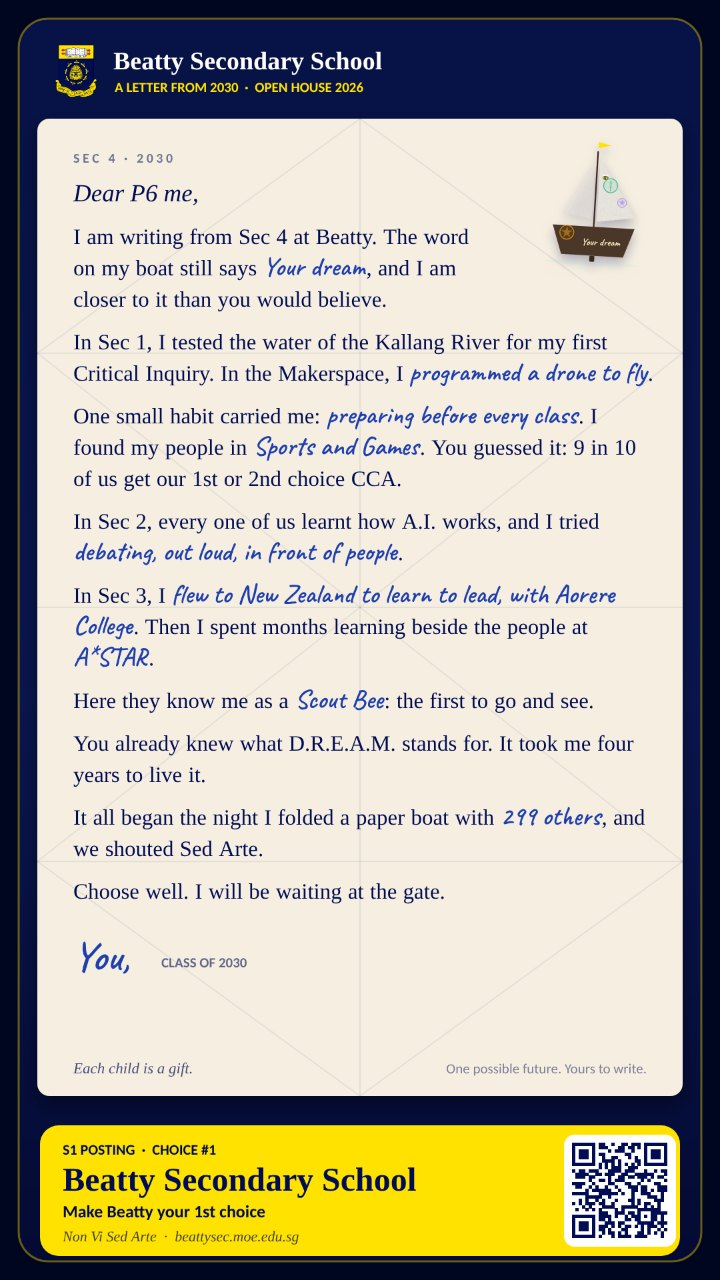
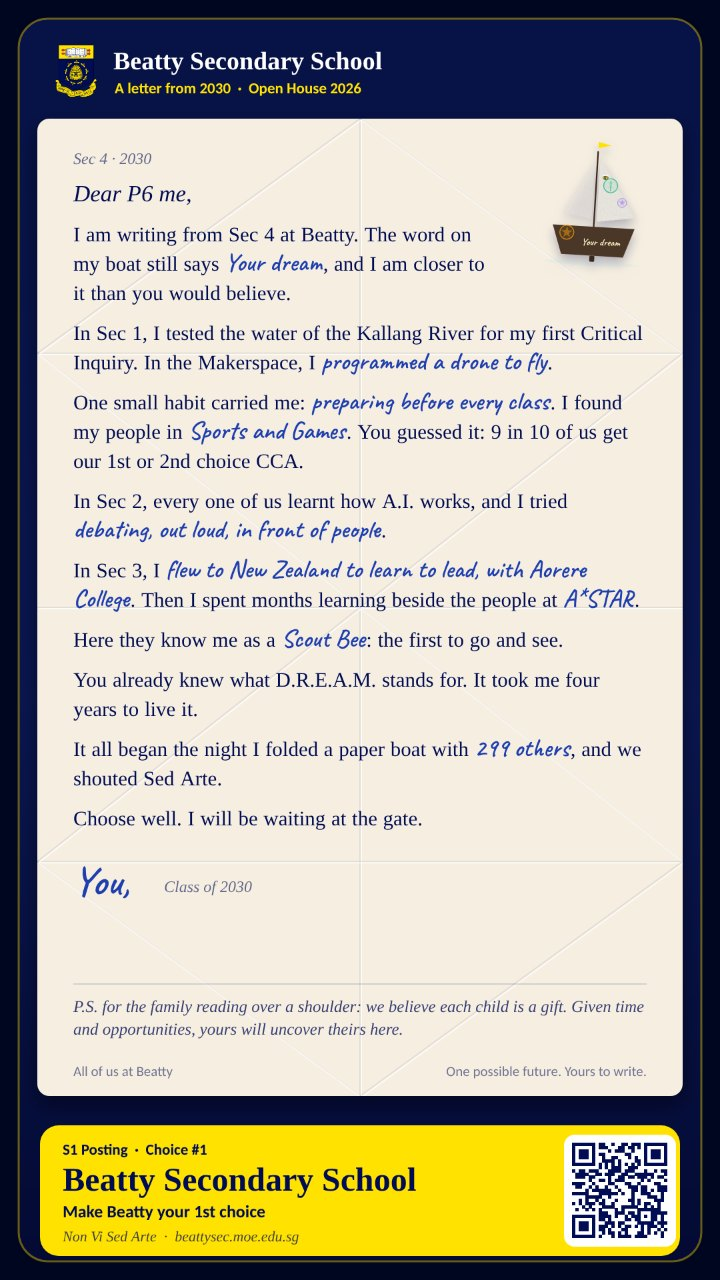
Craft pass: quiet chrome, so the boat and the letter carry the show
An audit for the tells of a generated interface, and the fixes, in order.

Icons: the eight bees in the quiz use the show's own line icons (they were emoji, though the same
bees are line icons one screen later). Tick glyphs typed as text become the check icon.

Labels: on the phone, small capital labels with wide tracking become sentence case and a size
larger; they are read at arm's length in a hall.

Colour: no gradient text and no glow on the big screen's fun fact number or the gold letters;
no glow on the phone's numbers, badges and bands. A visitor's sail colour is shown as a sail,
not a glowing ball.

Copy: no exclamation marks or emoji in interface feedback (You got it, Good guess, Give it a
wave). A wrong guess no longer reads Good guess! Correct!

The letter: a dateline and sign off set like a letter, creases with a lit edge, type in the saved
image as large as the sheet allows, and a printed note from the school to the family reading over
a shoulder. Under it, one button and one quiet row of links replace six pills.

Claude-Session: https://claude.ai/code/session_01HFLukEU6NirBTN83HDK143

Changed region(s): [[0.0917, 0.0625, 0.9167, 0.8438], [0.0917, 0.875, 0.3056, 0.9062]]

diff --git a/gem/join/app.js b/gem/join/app.js
@@ -1666,7 +1666,6 @@ const WHY_FOR = {
     'The Eco-Strategist': 'From testing the Kallang River in Sec 1 to ecostewardship in Hanoi: you would learn by caring for real places.',
 };
 const WHY_DEFAULT = 'Every Beattyian has gifts waiting to be found. Here you get the time, and the chances, to find yours.';
-const BELIEF_LINE = 'Each child is a gift.';
 function whyLine() { return WHY_FOR[D.bee] || WHY_DEFAULT; }
 const CARD_URL_LABEL = 'beattysec.moe.edu.sg';
 const WHY_BEATTY = [['8', 'international exchanges'], ['6', 'industry attachments'], ['17', 'CCAs to belong to']];
@@ -1792,6 +1791,8 @@ const WENT = { GeoBali: 'stood on a volcano in Bali, for Geography', LitBali: 'w
     Estonia: 'worked with students in Estonia on digital citizenship', Hanoi: 'flew to Hanoi to learn ecostewardship' };
 const WORKED = { Rockwell: 'Rockwell Automation', PIL: 'PIL, the shipping line', ASTAR: 'A*STAR', Journalism: 'the Berita Harian newsroom', TamilMurasu: 'the Tamil Murasu newsroom', Makita: 'ITE College Central' };
 const LETTER_FROM = 'Sec 4 · 2030', LETTER_SIGN = 'Class of 2030', LETTER_FOOT = 'One possible future. Yours to write.';
+/* The one part not from the child: the school, to whoever is reading over a shoulder. From the school's own belief statement. */
+const LETTER_PS = 'P.S. for the family reading over a shoulder: we believe each child is a gift. Given time and opportunities, yours will uncover theirs here.', LETTER_PS_BY = 'All of us at Beatty';
 const inkSafe = t => String(t == null ? '' : t).replace(/[«»]/g, '').trim();
 const answered = (id, map) => { const t = inkSafe((D.askText || {})[id]); return t ? (map[t.toLowerCase()] || t) : ''; };
 function letterParas() {
@@ -1848,13 +1849,14 @@ function renderMemento() {
                     <p class="lt-date">${LETTER_FROM}</p>
                     ${paras.map((p, i) => `<p class="lt-p${i === 0 ? ' dear' : ''}" style="--i:${i}">${paraHTML(p)}</p>`).join('')}
                     <p class="lt-sign" style="--i:${paras.length}"><b class="ink">You,</b><span>${LETTER_SIGN}</span></p>
-                    <p class="lt-foot" style="--i:${paras.length + 1}"><em>${BELIEF_LINE}</em><span>${LETTER_FOOT}</span></p>
+                    <p class="lt-ps" style="--i:${paras.length + 1}">${LETTER_PS}<span>${LETTER_PS_BY}</span></p>
+                    <p class="lt-foot" style="--i:${paras.length + 2}">${LETTER_FOOT}</p>
                 </div>` : `
                 <div class="lt-seal">
                     <button type="button" class="bp-boat lt-boat" id="unfoldBoat" aria-label="Unfold your boat"><span id="ccBoat">${boat(220)}</span><span class="cc-water"></span></button>
-                    <p class="lt-tease">There is a letter inside your boat.</p>
-                    <p class="lt-tease2">It is from you, four years from now.</p>
-                    <p class="lt-wait" id="ltWait"${together ? '' : ' hidden'}>We unfold together. Wait for the count.</p>
+                    <p class="lt-tease">There is a letter inside your boat</p>
+                    <p class="lt-tease2">It is from you, four years from now</p>
+                    <p class="lt-wait" id="ltWait"${together ? '' : ' hidden'}>We unfold together: wait for the count</p>
                     <button type="button" id="unfoldBtn" class="nav-btn primary w-full text-base uppercase tracking-wide${together ? ' later' : ''}">Unfold it</button>
                 </div>`}
                 <div class="bp-perf"></div>
@@ -1866,7 +1868,8 @@ function renderMemento() {
             ${open ? `<button id="shareCardBtn" class="nav-btn primary w-full mt-4 text-base uppercase tracking-wide">${navigator.share ? 'Save or share my letter' : 'Save my letter'}</button>
             ${navigator.share ? '<button id="downloadCardBtn" class="nav-btn secondary w-full mt-2 text-sm uppercase tracking-wide">Save image</button>' : ''}
             <p class="cc-after">Save it now. Read it again when you choose your schools.</p>` : ''}
-            <div class="bp-links">${kept ? '' : `<button type="button" id="askCardBtn" class="bp-link ask">${ico('curious')}Ask a question</button>`}${CARD_LINKS.map(([l, u]) => `<a class="bp-link" href="${u}" target="_blank" rel="noopener">${l}</a>`).join('')}</div>
+            ${kept ? '' : `<button type="button" id="askCardBtn" class="nav-btn secondary w-full mt-3 text-sm">${ico('curious')}Ask a question</button>`}
+            <p class="bp-links">${CARD_LINKS.map(([l, u]) => `<a href="${u}" target="_blank" rel="noopener">${l}</a>`).join('<i> · </i>')}</p>
             <button id="resetBtn" class="mt-2 w-full text-sm underline pb-6" style="color:var(--text-muted);">Start over</button>
         </div>
     </div>`;
@@ -1937,21 +1940,22 @@ async function renderCardPNG() {
     ctx.textBaseline = 'alphabetic'; ctx.textAlign = 'left';
     if (crest) ctx.drawImage(crest, X, 64, 68, 85);
     ctx.fillStyle = '#fff'; ctx.font = `700 38px ${SERIF}`; ctx.fillText('Beatty Secondary School', X + 90, 104);
-    ctx.fillStyle = gold; ctx.font = `700 21px ${SANS}`; ctx.fillText('A LETTER FROM 2030  ·  OPEN HOUSE 2026', X + 92, 138);
+    ctx.fillStyle = gold; ctx.font = `700 23px ${SANS}`; ctx.fillText('A letter from 2030  ·  Open House 2026', X + 92, 140);
     // the sheet, with the creases the boat left
     const px = 56, py = 178, pw = W - 2 * px, ph = 1466;
     ctx.save(); ctx.shadowColor = 'rgba(0,0,0,.45)'; ctx.shadowBlur = 30; ctx.shadowOffsetY = 12; ctx.fillStyle = cream; roundRect(ctx, px, py, pw, ph, 18); ctx.fill(); ctx.restore();
     ctx.save(); roundRect(ctx, px, py, pw, ph, 18); ctx.clip(); ctx.strokeStyle = 'rgba(0,12,83,.07)'; ctx.lineWidth = 2;
-    const L = (x1, y1, x2, y2) => { ctx.beginPath(); ctx.moveTo(px + x1 * pw, py + y1 * ph); ctx.lineTo(px + x2 * pw, py + y2 * ph); ctx.stroke(); };
+    const L = (x1, y1, x2, y2) => { ctx.strokeStyle = 'rgba(0,12,83,.08)'; ctx.beginPath(); ctx.moveTo(px + x1 * pw, py + y1 * ph); ctx.lineTo(px + x2 * pw, py + y2 * ph); ctx.stroke();
+        ctx.strokeStyle = 'rgba(255,255,255,.75)'; ctx.beginPath(); ctx.moveTo(px + x1 * pw + 2, py + y1 * ph + 2); ctx.lineTo(px + x2 * pw + 2, py + y2 * ph + 2); ctx.stroke(); };   // a crease: a shadow, and the lit edge beside it
     [[.5, 0, .5, 1], [0, .5, 1, .5], [0, .24, 1, .24], [0, .76, 1, .76], [.5, 0, 0, .24], [.5, 0, 1, .24], [.5, 1, 0, .76], [.5, 1, 1, .76], [0, .24, .5, .5], [.5, .5, 1, .24], [0, .76, .5, .5], [.5, .5, 1, .76]].forEach(a => L(...a));
     ctx.restore();
     // their boat, set on the sheet like a stamp
     const bs = 210, bx = px + pw - bs - 26, by = py + 16;
     if (boatImg) { ctx.save(); ctx.translate(bx + bs / 2, by + bs / 2); ctx.rotate(.06); ctx.shadowColor = 'rgba(0,12,83,.28)'; ctx.shadowBlur = 16; ctx.shadowOffsetY = 8; ctx.drawImage(boatImg, -bs / 2, -bs / 2, bs, bs); ctx.restore();
         ctx.save(); ctx.translate(bx + bs / 2 + 8, by + bs * .83); ctx.rotate(.03); ctx.fillStyle = '#fff6c8'; ctx.textAlign = 'center'; ctx.font = `600 ${Math.max(13, Math.min(20, 150 / Math.max(6, word.length)))}px ${HAND_FONT}`; ctx.fillText(word, 0, 0); ctx.restore(); }
-    ctx.textAlign = 'left'; ctx.fillStyle = 'rgba(0,12,83,.55)'; ctx.font = `700 20px ${SANS}`; ctx.fillText(LETTER_FROM.toUpperCase().split('').join(' '), px + 54, py + 66);
+    ctx.textAlign = 'left'; ctx.fillStyle = 'rgba(0,12,83,.6)'; ctx.font = `italic 24px ${SERIF}`; ctx.fillText(LETTER_FROM, px + 54, py + 68);
     // the letter: printed words in serif, the visitor's own in a hand
-    const tx = px + 54, tw = pw - 108, top = py + 124, bottom = py + ph - 150, paras = letterParas();
+    const tx = px + 54, tw = pw - 108, top = py + 124, bottom = py + ph - 290, paras = letterParas();
     const lay = (z) => { const lh = Math.round(z * 1.42), gap = Math.round(z * .5), out = []; let y = top;
         const fontOf = k => k ? `600 ${Math.round(z * 1.22)}px ${HAND_FONT}` : `${z}px ${SERIF}`;
         paras.forEach((p, pi) => { const toks = []; p.split(/(«[^»]*»)/).forEach(seg => { if (!seg) return; const k = seg[0] === '«', tight = !k && /^\S/.test(seg) && toks.length > 0; (k ? seg.slice(1, -1) : seg).split(/\s+/).filter(Boolean).forEach((w, n) => toks.push({ w, k, g: tight && n === 0 })); });
@@ -1963,18 +1967,20 @@ async function renderCardPNG() {
                 out.push({ ...t, x, y, font: ctx.font }); x += ww + sp; });
             y += lh + gap; });
         return { out, end: y - gap }; };
-    let Z = 33, laid = lay(Z); while (laid.end > bottom && Z > 21) { Z -= 2; laid = lay(Z); }
+    let Z = 39, laid = lay(Z); while (laid.end > bottom && Z > 21) { Z -= 2; laid = lay(Z); }   // as large as the sheet allows
     laid.out.forEach(t => { ctx.font = t.font; ctx.fillStyle = t.k ? inkCol : navy; ctx.fillText(t.w, t.x, t.y); });
     // signed
-    const sy0 = Math.min(laid.end + 34, py + ph - 108);
+    const sy0 = Math.min(laid.end + 34, py + ph - 236);
     ctx.fillStyle = inkCol; ctx.font = `600 62px ${HAND_FONT}`; ctx.fillText('You,', tx, sy0 + 26);
-    ctx.fillStyle = 'rgba(0,12,83,.6)'; ctx.font = `700 21px ${SANS}`; ctx.fillText(LETTER_SIGN.toUpperCase(), tx + 132, sy0 + 22);
-    ctx.fillStyle = 'rgba(0,12,83,.72)'; ctx.font = `italic 23px ${SERIF}`; ctx.fillText(BELIEF_LINE, tx, py + ph - 34);
-    ctx.textAlign = 'right'; ctx.fillStyle = 'rgba(0,12,83,.5)'; ctx.font = `21px ${SANS}`; ctx.fillText(LETTER_FOOT, px + pw - 54, py + ph - 34); ctx.textAlign = 'left';
+    ctx.fillStyle = 'rgba(0,12,83,.6)'; ctx.font = `italic 24px ${SERIF}`; ctx.fillText(LETTER_SIGN, tx + 136, sy0 + 22);
+    ctx.strokeStyle = 'rgba(0,12,83,.14)'; ctx.lineWidth = 2; ctx.beginPath(); ctx.moveTo(tx, py + ph - 168); ctx.lineTo(tx + tw, py + ph - 168); ctx.stroke();
+    ctx.fillStyle = 'rgba(0,12,83,.78)'; ctx.font = `italic 25px ${SERIF}`; const psEnd = wrapText(ctx, LETTER_PS, tx, py + ph - 126, tw, 34, 2);
+    ctx.fillStyle = 'rgba(0,12,83,.55)'; ctx.font = `21px ${SANS}`; ctx.fillText(LETTER_PS_BY, tx, py + ph - 30);
+    ctx.textAlign = 'right'; ctx.fillText(LETTER_FOOT, px + pw - 54, py + ph - 30); ctx.textAlign = 'left';
     // the stub: the ask
     const sy = 1688, sh = 196;
     ctx.fillStyle = gold; roundRect(ctx, X - 20, sy, CW + 40, sh, 28); ctx.fill();
-    ctx.fillStyle = navy; ctx.font = `700 22px ${SANS}`; ctx.fillText('S1 POSTING  ·  CHOICE #1', X + 14, sy + 44);
+    ctx.fillStyle = navy; ctx.font = `700 23px ${SANS}`; ctx.fillText('S1 Posting  ·  Choice #1', X + 14, sy + 44);
     ctx.font = `700 ${fit('Beatty Secondary School', `700 $px ${SERIF}`, CW - 250, 50, 34)}px ${SERIF}`; ctx.fillText('Beatty Secondary School', X + 14, sy + 98);
     ctx.font = `700 26px ${SANS}`; ctx.fillText(ASK_LINE, X + 14, sy + 138, CW - 250);
     ctx.font = `italic 22px ${SERIF}`; ctx.fillStyle = 'rgba(0,12,83,.75)'; ctx.fillText('Non Vi Sed Arte  ·  ' + CARD_URL_LABEL, X + 14, sy + 174, CW - 250);
@@ -2244,10 +2250,10 @@ function onFoldBeatDone(foldIndex) {
     clearTimeout(foldAssistTimer);
     chapterFlash(D.nextFold);                            // 🎩 at 5, 💎 at 6 — the boat has its own reveal
     if (soloMode || (D.nextFold || 0) >= (D.foldTarget || 0)) saveToFirebase();   // once per beat → the presenter's "N folded" count
-    if (soloMode) { foldFollowActive = false; soloIdx++; renderRest('Beautiful fold.', 'Eyes back on the big screen'); return; }
+    if (soloMode) { foldFollowActive = false; soloIdx++; renderRest('Beautiful fold', 'Eyes back on the big screen'); return; }
     if ((D.nextFold || 0) < (D.foldTarget || 0)) { setTimeout(continueFolding, 380); return; }   // one more in this beat
     foldFollowActive = false;
-    renderRest(D.nextFold >= 8 ? 'Your boat is complete' : 'Beautiful fold.', 'Eyes back on the big screen');
+    renderRest(D.nextFold >= 8 ? 'Your boat is complete' : 'Beautiful fold', 'Eyes back on the big screen');
 }
 
 /* ============================================================
@@ -2280,7 +2286,7 @@ function showPoll(p, revealed) {
 async function votePoll(p, i) {
     const idx = parseInt(i), correct = idx === p.correctAnswer;
     let insight = p.insight || 'Thanks for voting!';
-    if (!correct && p.correctAnswer != null) insight = 'Good guess! ' + (p.insight || '');
+    if (!correct && p.correctAnswer != null) insight = p.insight || '';
     if (!D.polls) D.polls = {};
     D.polls[p.id] = { choice: idx, choiceText: p.options[idx], correct, insight }; save();
     haptic(40);
@@ -2292,7 +2298,7 @@ function showPollResult(p) {
     const revealed = pollRevealed;
     // Before the reveal the phone knows only that you're in and how many have
     // answered — the answer belongs to the big screen, on the presenter's cue.
-    const eyebrow = !revealed ? 'Locked in ✓' : (mine ? (mine.correct ? '✓ You got it!' : 'Good guess!') : 'The answer');
+    const eyebrow = !revealed ? ico('check') + 'Locked in' : (mine ? (mine.correct ? ico('check') + 'You got it' : 'Good guess') : 'The answer');
     $app.innerHTML = `
     <div class="sail-screen fade-up">
         <div class="content-zone" style="padding-top:20px;">
@@ -2367,7 +2373,7 @@ function renderChosenNexus(type) {
     $app.innerHTML = `
     <div class="sail-screen follow-screen fade-up">
         <div class="flex-1 flex flex-col items-center justify-center p-5 text-center">
-            <div class="follow-check mb-2">✓</div>
+            <div class="follow-check mb-2">${ico('check')}</div>
             <h1 class="font-serif text-xl mb-1" style="color:var(--accent-gold);">Your bee has landed</h1>
             <p class="text-sm mb-4" style="color:var(--text-secondary);">${pick?.text || ''}: watch the big screen</p>
             <div class="follow-boat">${buildOrigamiSVG(c, stage, 190, extras())}</div>
@@ -2549,10 +2555,10 @@ function renderAtSea() {
         <div class="flex-1 flex flex-col items-center justify-center p-5 text-center">
             <p class="text-[10px] mb-2 tracking-[0.3em] uppercase" style="color:var(--accent-gold);">You've set sail</p>
             <h1 class="font-serif text-2xl mb-2" style="color:var(--text-primary);">Look up: you're in the fleet</h1>
-            <div class="atsea-swatch" style="background:${col};color:${col}"></div>
+            <svg class="atsea-sail" viewBox="0 0 64 56" aria-hidden="true"><path d="M29 4V46H7Z" fill="${col}" opacity=".7"/><path d="M33 9V46H57Z" fill="${col}"/><path d="M4 50H60" stroke="${col}" stroke-width="3" stroke-linecap="round"/></svg>
             <p class="text-sm mt-3 max-w-xs" style="color:var(--text-secondary);">Find the <b style="color:${col}">${name}</b> sail${dest && dest.text ? ` bound for <b style="color:var(--text-primary)">${dest.text}</b>` : ''}. Every boat on the big screen is a Beattyian setting sail from our Hive.</p>
             <div class="follow-boat mt-4">${buildOrigamiSVG(c, 9, 150, extras())}</div>
-            <div class="rollcall" id="rollCall" hidden><span class="rc-word">Wave! 👋</span><span class="rc-sub" id="rcSub"></span></div>
+            <div class="rollcall" id="rollCall" hidden><span class="rc-word">Give it a wave</span><span class="rc-sub" id="rcSub"></span></div>
         </div>
     </div>`;
     scheduleRollCall();
@@ -2563,7 +2569,7 @@ function scheduleRollCall() {
     const when = sailLocalAt + 12000 + i * 3000 - Date.now(); if (when < -2500) return;
     setTimeout(() => {
         const rc = document.getElementById('rollCall'), scr = document.getElementById('atSea'); if (!rc || !scr) return;
-        const sub = document.getElementById('rcSub'); if (sub) sub.textContent = (D.global.text || '') + ": that's you!";
+        const sub = document.getElementById('rcSub'); if (sub) sub.textContent = (D.global.text || '') + ": that's you";
         rc.hidden = false; scr.classList.add('rc-flash'); hapticPattern([40, 60, 40]); playPing();
         setTimeout(() => { rc.hidden = true; scr.classList.remove('rc-flash'); }, 2800);
     }, Math.max(0, when));
@@ -2722,7 +2728,7 @@ function renderWatch(state) {
     <div class="sail-screen follow-screen watch-screen fade-up">
         ${chapterStrip()}
         <div class="flex-1 flex flex-col items-center justify-center p-5 text-center">
-            <div class="watch-glyph">▲</div>
+            <div class="watch-glyph">${ico('arrow')}</div>
             <p class="text-[10px] mt-3 tracking-[0.3em] uppercase" style="color:var(--text-muted);">Eyes on the screen</p>
             ${state && state.title ? `<h1 class="font-serif text-lg mt-2" style="color:var(--text-secondary);">${state.title}</h1>` : ''}
         </div>
@@ -2911,7 +2917,7 @@ function renderQuiz() {
             <p class="q-eyebrow" style="text-align:center;">Find your bee · ${qIndex + 1} of ${QUIZ.length}</p>
             <h2 class="q-question" style="text-align:center;">${item.q}</h2>
             <p class="q-hint" style="margin:6px 0 12px;">Tap your <b style="color:var(--accent-gold)">first</b> choice, then your <b style="color:var(--accent-gold)">second</b>.</p>
-            <div class="quiz-grid">${item.o.map((t, i) => `<button class="quiz-opt" data-i="${i}"><span class="qo-ic">${BEES[i].icon}</span><span class="qo-t">${t}</span><span class="qo-rank"></span></button>`).join('')}</div>
+            <div class="quiz-grid">${item.o.map((t, i) => `<button class="quiz-opt" data-i="${i}"><span class="qo-ic">${beeIco(BEES[i].name)}</span><span class="qo-t">${t}</span><span class="qo-rank"></span></button>`).join('')}</div>
         </div>
     </div>`;
     $app.querySelectorAll('.quiz-opt').forEach(b => b.addEventListener('click', () => {
@@ -2991,7 +2997,7 @@ function renderRest(title, sub) {
     $app.innerHTML = `
     <div class="sail-screen follow-screen fade-up">
         <div class="flex-1 flex flex-col items-center justify-center p-5 text-center">
-            <div class="follow-check mb-2">✓</div>
+            <div class="follow-check mb-2">${ico('check')}</div>
             <h1 class="font-serif text-xl mb-1" style="color:var(--accent-gold);">${title}</h1>
             <p class="text-sm mb-4" style="color:var(--text-secondary);">${sub}</p>
             <div class="follow-boat" id="restBoat">${buildOrigamiSVG(c, stage, 190, extras())}</div>

diff --git a/gem/index.html b/gem/index.html
@@ -189,12 +189,12 @@ main{position:relative; z-index:20; flex:1 1 auto; overflow:hidden; display:flex
 .cl-tag .ico{width:18px; height:18px; color:var(--gold)}
 /* the card step: a sealed boat, the count, then the letter and the ask */
 .cl-screen{position:relative}
-.cl-screen .cl-im{position:absolute; inset:10px; width:calc(100% - 20px); height:calc(100% - 20px); transition:opacity .9s ease, transform .9s cubic-bezier(.2,.9,.3,1.1)}
+.cl-screen .cl-im{position:absolute; inset:10px; width:calc(100% - 20px); height:calc(100% - 20px); transition:opacity .9s ease, transform .9s cubic-bezier(.2,.8,.2,1)}
 .closing.sealed .cl-im.opened{opacity:0; transform:scale(.8) rotate(-4deg)} .closing.open .cl-im.sealed{opacity:0}
 .closing.sealed .cl-after, .closing.open .cl-before{display:none}
 .closing.just .cl-after > *{animation:biUp .8s var(--ease) both} .closing.just .cl-after > *:nth-child(2){animation-delay:.15s} .closing.just .cl-after > *:nth-child(n+3){animation-delay:.3s}
 .cl-count{font-family:var(--serif); font-weight:700; color:var(--gold); font-size:clamp(5rem,calc(12*var(--vw)),13rem); line-height:1; min-height:1em; margin-top:calc(2*var(--vh))}
-.cl-count.pop{animation:clPop .9s cubic-bezier(.2,.9,.3,1.2) both}
+.cl-count.pop{animation:clPop .7s cubic-bezier(.2,.8,.2,1) both}
 @keyframes clPop{ from{transform:scale(.4); opacity:0} 40%{opacity:1} to{transform:scale(1); opacity:1} }
 .cl-opened{color:var(--gold); font-weight:800; letter-spacing:.06em; min-height:1.4em; margin:0 0 calc(1.2*var(--vh)); font-size:clamp(1rem,calc(1.3*var(--vw)),1.5rem)}
 .cl-side .stage-title{font-size:clamp(2.4rem,calc(5*var(--vw)),5rem); line-height:1.02}
@@ -346,8 +346,7 @@ main{position:relative; z-index:20; flex:1 1 auto; overflow:hidden; display:flex
   background:linear-gradient(150deg, rgba(255,226,0,.10), rgba(0,6,31,.7)); border:1px solid var(--card-line);
   border-radius:32px; backdrop-filter:var(--glass); max-width:min(calc(90*var(--vw)),1100px); width:100%}
 .fact-num{font-family:var(--serif); font-weight:700; line-height:.9; font-size:clamp(6rem,calc(20*var(--vw)),17rem);
-  background:linear-gradient(160deg,#fff,var(--gold)); -webkit-background-clip:text; background-clip:text; -webkit-text-fill-color:transparent;
-  filter:drop-shadow(0 10px 40px rgba(255,226,0,.3))}
+  color:var(--gold)}
 .fact-label{font-family:var(--serif); color:#fff; font-size:clamp(1.4rem,calc(3*var(--vw)),2.8rem); margin-top:6px}
 .fact-sub{color:var(--ink-dim); font-size:clamp(1rem,calc(1.7*var(--vw)),1.5rem); margin-top:16px}
 
@@ -367,7 +366,7 @@ main{position:relative; z-index:20; flex:1 1 auto; overflow:hidden; display:flex
 .dfront .bg:after{content:""; position:absolute; inset:0; background:linear-gradient(180deg, transparent 62%, rgba(4,8,26,.72) 84%, var(--navy-900) 96%)}
 .dcard:hover .dfront .bg{filter:brightness(1.12) saturate(1.05)}
 .dfront .txt{position:absolute; left:0; right:0; top:62%; bottom:0; display:flex; flex-direction:column; align-items:center; justify-content:center; gap:4px; padding:clamp(10px,calc(1.5*var(--vw)),20px); text-align:center; z-index:2}
-.dfront .letter{font-family:var(--serif); font-weight:700; color:var(--gold); font-size:clamp(2.8rem,calc(5.2*var(--vw)),5rem); line-height:.9; text-shadow:0 4px 24px rgba(255,226,0,.25)}
+.dfront .letter{font-family:var(--serif); font-weight:700; color:var(--gold); font-size:clamp(2.8rem,calc(5.2*var(--vw)),5rem); line-height:.9; text-shadow:0 2px 10px rgba(0,0,0,.45)}
 .dfront .word{font-family:var(--serif); color:#fff; font-size:clamp(1.05rem,calc(1.7*var(--vw)),1.75rem); letter-spacing:.02em}
 .dfront .hint{margin-top:8px; font-family:var(--sans); font-size:clamp(.58rem,calc(.82*var(--vw)),.78rem); letter-spacing:.16em; text-transform:uppercase; color:var(--ink-dim)}
 .dback{background:linear-gradient(160deg,var(--navy-700),var(--navy-850)); transform:rotateY(180deg); padding:clamp(24px,calc(4*var(--vh)),46px) clamp(18px,calc(1.7*var(--vw)),30px) clamp(18px,calc(3*var(--vh)),30px); display:flex; flex-direction:column; justify-content:flex-start; text-align:left}
@@ -658,7 +657,7 @@ footer{position:relative; z-index:40; flex:0 0 auto; background:linear-gradient(
 /* acronym */
 .sc-acro{display:grid; gap:clamp(14px,calc(2*var(--vw)),40px); width:min(100%,1640px)}
 .sc-let{text-align:center; display:flex; flex-direction:column; align-items:center}
-.sc-let .L{font-family:var(--serif); font-weight:700; color:var(--gold); font-size:clamp(5rem,calc(10*var(--vw)),11rem); line-height:1; text-shadow:0 0 60px rgba(255,226,0,.25)}
+.sc-let .L{font-family:var(--serif); font-weight:700; color:var(--gold); font-size:clamp(5rem,calc(10*var(--vw)),11rem); line-height:1}
 .sc-let .w{font-family:var(--serif); color:#fff; font-size:clamp(1.4rem,calc(2.2*var(--vw)),2.4rem); margin-top:clamp(6px,calc(1.4*var(--vh)),16px)}
 .sc-let .x{color:var(--ink-dim); font-size:clamp(1.05rem,calc(1.5*var(--vw)),1.6rem); margin-top:clamp(8px,calc(1.4*var(--vh)),14px); line-height:1.35; max-width:16ch}
 
@@ -725,7 +724,7 @@ footer{position:relative; z-index:40; flex:0 0 auto; background:linear-gradient(
 
 /* live · fleet count */
 .sc-fleet{text-align:center}
-.sc-fleet .n{font-family:var(--serif); font-weight:700; color:var(--gold); font-size:clamp(8rem,calc(19*var(--vw)),22rem); line-height:.9; font-variant-numeric:tabular-nums; text-shadow:0 0 90px rgba(255,226,0,.28)}
+.sc-fleet .n{font-family:var(--serif); font-weight:700; color:var(--gold); font-size:clamp(8rem,calc(19*var(--vw)),22rem); line-height:.9; font-variant-numeric:tabular-nums}
 .sc-fleet .l{font-family:var(--serif); color:#fff; font-size:clamp(2rem,calc(3.8*var(--vw)),4rem); margin-top:clamp(8px,calc(2*var(--vh)),24px)}
 .sc-fleet .sails{display:flex; justify-content:center; gap:clamp(8px,calc(1*var(--vw)),18px); margin-top:clamp(20px,calc(4*var(--vh)),46px); color:var(--gold)}
 .sc-fleet .sails .ico{width:clamp(28px,calc(3*var(--vw)),46px); height:clamp(28px,calc(3*var(--vw)),46px); opacity:.85; animation:bob 3.4s ease-in-out infinite; animation-delay:calc(var(--k) * -.4s)}
@@ -1854,7 +1853,7 @@ const journeySteps=[
   { id:'poll_dream', type:'poll', title:"Live Poll · Our Core Values", pollData:{ id:'dream_poll',
      question:"What does D.R.E.A.M. stand for at Beatty?",
      options:["Discipline, Respect, Excellence, Achievement, Mindfulness","Discipline, Resilience, Empathy, Adaptability, Mindfulness","Diligence, Respect, Empathy, Adaptability, Mastery","Determination, Resilience, Excellence, Ambition, Mindfulness"],
-     correctAnswer:1, insight:"Correct! DREAM (Discipline, Resilience, Empathy, Adaptability, Mindfulness) guides every Beattyian." } },
+     correctAnswer:1, insight:"DREAM: Discipline, Resilience, Empathy, Adaptability, Mindfulness. Five values guide every Beattyian." } },
   { id:'values', type:'values', title:"The D.R.E.A.M. We Live By", desc:"Five values that grow a Beattyian. Non\u00A0Vi\u00A0Sed\u00A0Arte: not with force, but with skill." },
   { id:'deck_b', type:'slide', url:"https://docs.google.com/presentation/d/e/2PACX-1vSrojJmwv5d-ElzN38A8S1Q_YAYl1_VulE6jPSFy6n8dEjPUnzNltCRstS8VC3fUgSg7Xd0fYN4-NWZ/pubembed?start=false&loop=false&delayms=60000" },
   { id:'funfact_cca', type:'funfact', funfactData:{ number:"17", label:"CCAs to belong to", subtitle:"Across Uniformed Groups, Performing Arts, Sports & Games and Clubs. A hive has a place for every kind of bee." } },
@@ -1871,7 +1870,7 @@ const journeySteps=[
   { id:'poll_industry', type:'poll', title:"Live Poll · Our Pathways", pollData:{ id:'industry',
      question:"Which is NOT an area students can dive into at Beatty?",
      options:["Sustainability","Journalism & Media","Engineering & AI","None: we do all of these"], correctAnswer:3,
-     insight:"A trick! Beatty offers all of these. Every passion has a pathway." } },
+     insight:"A trick question: Beatty offers all of these. Every passion has a pathway." } },
   { id:'fold_i', type:'fold', title:"Fold with us · I", desc:"International & Industry: the sail.", fold:{letter:'I', name:'International & Industry', sub:'The Sail', from:3, to:6} },
   { id:'deck_d', type:'slide', url:"https://docs.google.com/presentation/d/e/2PACX-1vRIJppB8CD0rLo6qLaE4eiXeJHcYviqju1Gf3QChKnv7XsJY2cfYQ0eU8M7pSf5Bos2DcyuIxl6ZCPX/pubembed?start=false&loop=false&delayms=60000" },
   { id:'nexus_global', type:'globe', title:"Exploring New Skies, Building Ties", desc:"NEXUS@BTY international exchanges. Choose the one that calls to you. Your bee lands on the globe.",

diff --git a/gem/join/app.css b/gem/join/app.css
@@ -1186,14 +1186,65 @@ a.bp-qr { display: block; }
 .lt-foot { position: relative; display: flex; flex-direction: column; gap: 3px; margin: 16px 0 0; padding-top: 10px; border-top: 1px solid rgba(0,12,83,.12); font-size: .7rem; color: rgba(0,12,83,.55); }
 .lt-foot em { font-family: Georgia, serif; font-size: .82rem; color: rgba(0,12,83,.75); }
 /* just unfolded: the sheet opens, then the lines arrive one after another, as if being written */
-.letter-pass.fresh .lt-paper { animation: ltOpen .7s cubic-bezier(.2,.9,.3,1.1) both; transform-origin: 50% 20%; }
+.letter-pass.fresh .lt-paper { animation: ltOpen .7s cubic-bezier(.2,.8,.2,1) both; transform-origin: 50% 20%; }
 @keyframes ltOpen { from { transform: scale(.55) rotate(-3deg); opacity: 0; } to { transform: none; opacity: 1; } }
-.letter-pass.fresh .lt-p, .letter-pass.fresh .lt-sign, .letter-pass.fresh .lt-foot { opacity: 0; animation: ltLine .6s ease forwards; animation-delay: calc(.6s + var(--i) * .32s); }
+.letter-pass.fresh .lt-p, .letter-pass.fresh .lt-sign, .letter-pass.fresh .lt-ps, .letter-pass.fresh .lt-foot { opacity: 0; animation: ltLine .6s ease forwards; animation-delay: calc(.6s + var(--i) * .32s); }
 @keyframes ltLine { from { opacity: 0; transform: translateY(6px); } to { opacity: 1; transform: none; } }
-@media (prefers-reduced-motion: reduce) { .letter-pass.fresh .lt-paper, .letter-pass.fresh .lt-p, .letter-pass.fresh .lt-sign, .letter-pass.fresh .lt-foot, .lt-boat .cc-boat-tilt { animation: none; opacity: 1; } }
+@media (prefers-reduced-motion: reduce) { .letter-pass.fresh .lt-paper, .letter-pass.fresh .lt-p, .letter-pass.fresh .lt-sign, .letter-pass.fresh .lt-ps, .letter-pass.fresh .lt-foot, .lt-boat .cc-boat-tilt { animation: none; opacity: 1; } }
 
 /* waiting for the hall's count, then the count itself */
 .lt-wait { font-size: .9rem; font-weight: 700; color: var(--accent-gold); margin: 0 0 14px; transition: opacity .4s; }
 .lt-wait.count { font-family: Georgia, serif; font-size: 4.2rem; line-height: 1; margin: 0 0 10px; }
 .lt-wait.gone { opacity: 0; }
 .letter-pass .nav-btn.later { visibility: hidden; }
+
+/* ============================================================
+   CRAFT PASS: quiet chrome, so the boat and the letter carry the richness
+   ============================================================ */
+/* Labels are read at arm's length in a hall: sentence case, a size up, no wide tracking */
+#app .uppercase, .q-eyebrow, .ch-name, .react-hint, .corner-boat .cb-label, #linkPill, .bp-head small, .bp-stub small, .bp-kept button,
+.lt-date, .lt-sign span, .quiz-opt .qo-rank, .ans-tag, .hap-btn, .cb-badge { text-transform: none; letter-spacing: .01em; }
+#app .text-\[10px\], #app .text-\[11px\] { font-size: .82rem; }
+.q-eyebrow { font-size: .88rem; font-weight: 700; margin-bottom: 8px; }
+.ch-name { font-size: .82rem; font-weight: 700; margin-left: 8px; }
+.react-hint { font-size: .76rem; }
+.corner-boat .cb-label { font-size: .72rem; }
+#linkPill { font-size: .72rem; font-weight: 700; }
+.bp-head small { font-size: .74rem; letter-spacing: .01em; }
+.bp-stub small { font-size: .76rem; }
+/* One accent, no glow: depth comes from the surface, not from light around it */
+.glance-num { text-shadow: none; font-weight: 700; }
+.bee-reveal-ic { filter: none; }
+body[data-mode="respond"] .mode-band { box-shadow: none; }
+.atsea-screen::before, .atsea-screen::after { box-shadow: none; height: 8px; }
+.ch-dot.now { box-shadow: none; }
+.hexprog span.cur { box-shadow: none; }
+.follow-check { box-shadow: none; }
+.follow-check .ico { width: 26px; height: 26px; }
+.hive-hex { box-shadow: none; }
+/* Their colour as a sail (was a glowing ball) */
+.atsea-sail { width: 72px; height: 63px; display: block; margin: 8px auto 0; }
+.watch-glyph { animation: none; }
+.watch-glyph .ico { width: 34px; height: 34px; transform: rotate(-90deg); color: rgba(255,226,0,.6); }
+/* The eight bees: the show's own line icons, in one size and one colour; tiles tall enough for a thumb */
+.quiz-grid { gap: 10px; }
+.quiz-opt { min-height: 104px; justify-content: center; gap: 10px; padding: 12px 10px; font-size: .92rem; line-height: 1.25; }
+.quiz-opt .qo-ic { line-height: 0; }
+.quiz-opt .qo-ic .ico { width: 26px; height: 26px; color: var(--accent-gold); }
+/* Ask a question: a quiet text button under the reactions, not another pill */
+.ask-chip { text-transform: none; letter-spacing: .01em; border: 0; background: none; padding: 8px 10px; border-radius: 8px; font-size: .88rem; font-weight: 700; text-decoration: underline; text-underline-offset: 3px; }
+.ask-chip:active { background: rgba(255,226,0,.12); transform: none; }
+/* Under the letter: one button, then one quiet row of links */
+#askCardBtn { display: flex; align-items: center; justify-content: center; gap: 8px; }
+#askCardBtn .ico { width: 1.1em; height: 1.1em; }
+p.bp-links { display: block; margin: 16px 0 0; text-align: center; font-size: .85rem; line-height: 1.9; color: var(--text-muted); }
+p.bp-links a { color: var(--text-secondary); text-decoration: underline; text-underline-offset: 3px; }
+p.bp-links i { font-style: normal; opacity: .5; }
+/* The letter: a dateline and a sign off set like a letter, creases with a lit edge, a note to the family */
+.lt-date { font-family: Georgia, serif; font-style: italic; font-weight: 400; font-size: .85rem; color: rgba(0,12,83,.6); }
+.lt-sign span { font-family: Georgia, serif; font-style: italic; font-weight: 400; font-size: .85rem; }
+.lt-creases path { stroke: rgba(0,12,83,.09); filter: drop-shadow(1px 1px 0 rgba(255,255,255,.8)); }
+.lt-ps { position: relative; margin: 16px 0 0; padding-top: 12px; border-top: 1px solid rgba(0,12,83,.14); font-family: Georgia, serif; font-style: italic; font-size: .9rem; line-height: 1.45; color: rgba(0,12,83,.8); }
+.lt-ps span { display: block; margin-top: 4px; font: 400 .76rem/1.3 inherit; font-family: inherit; font-style: normal; color: rgba(0,12,83,.55); }
+.lt-foot { display: block; border-top: 0; padding-top: 0; margin-top: 10px; text-align: right; font-size: .72rem; }
+.lt-tease { font-size: 1.35rem; line-height: 1.25; }
